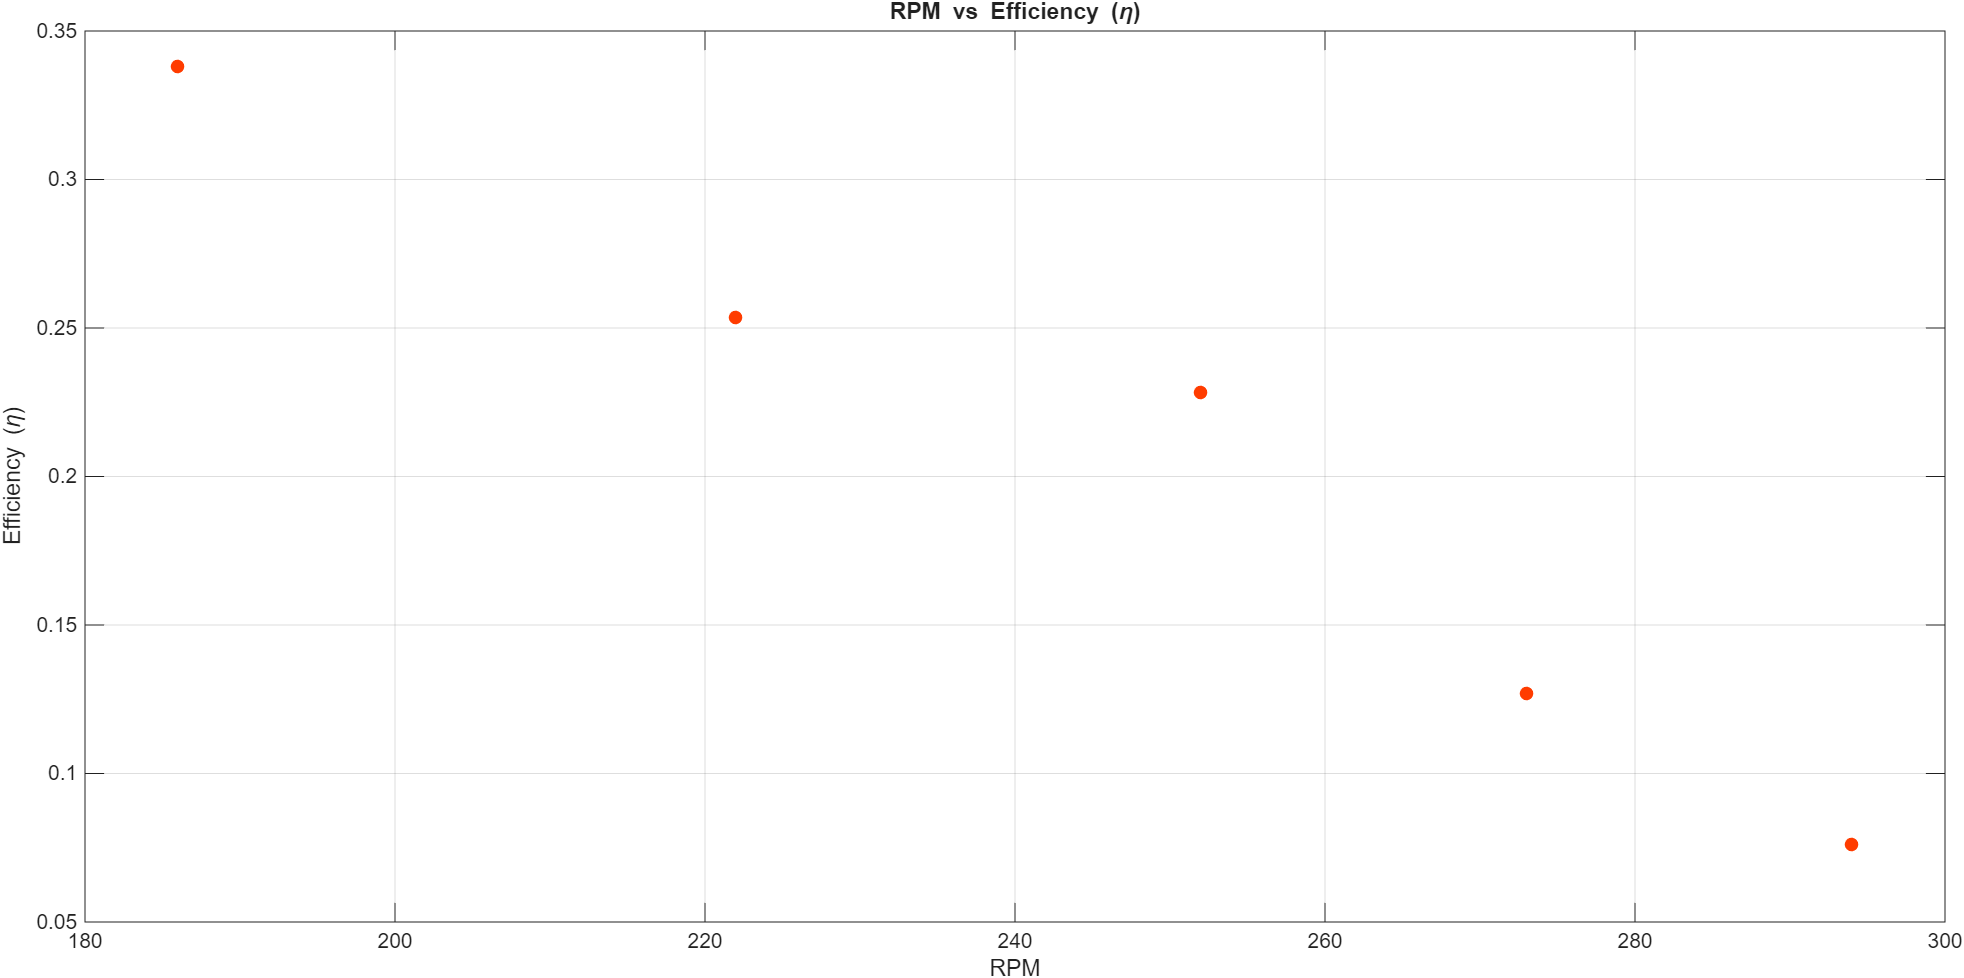
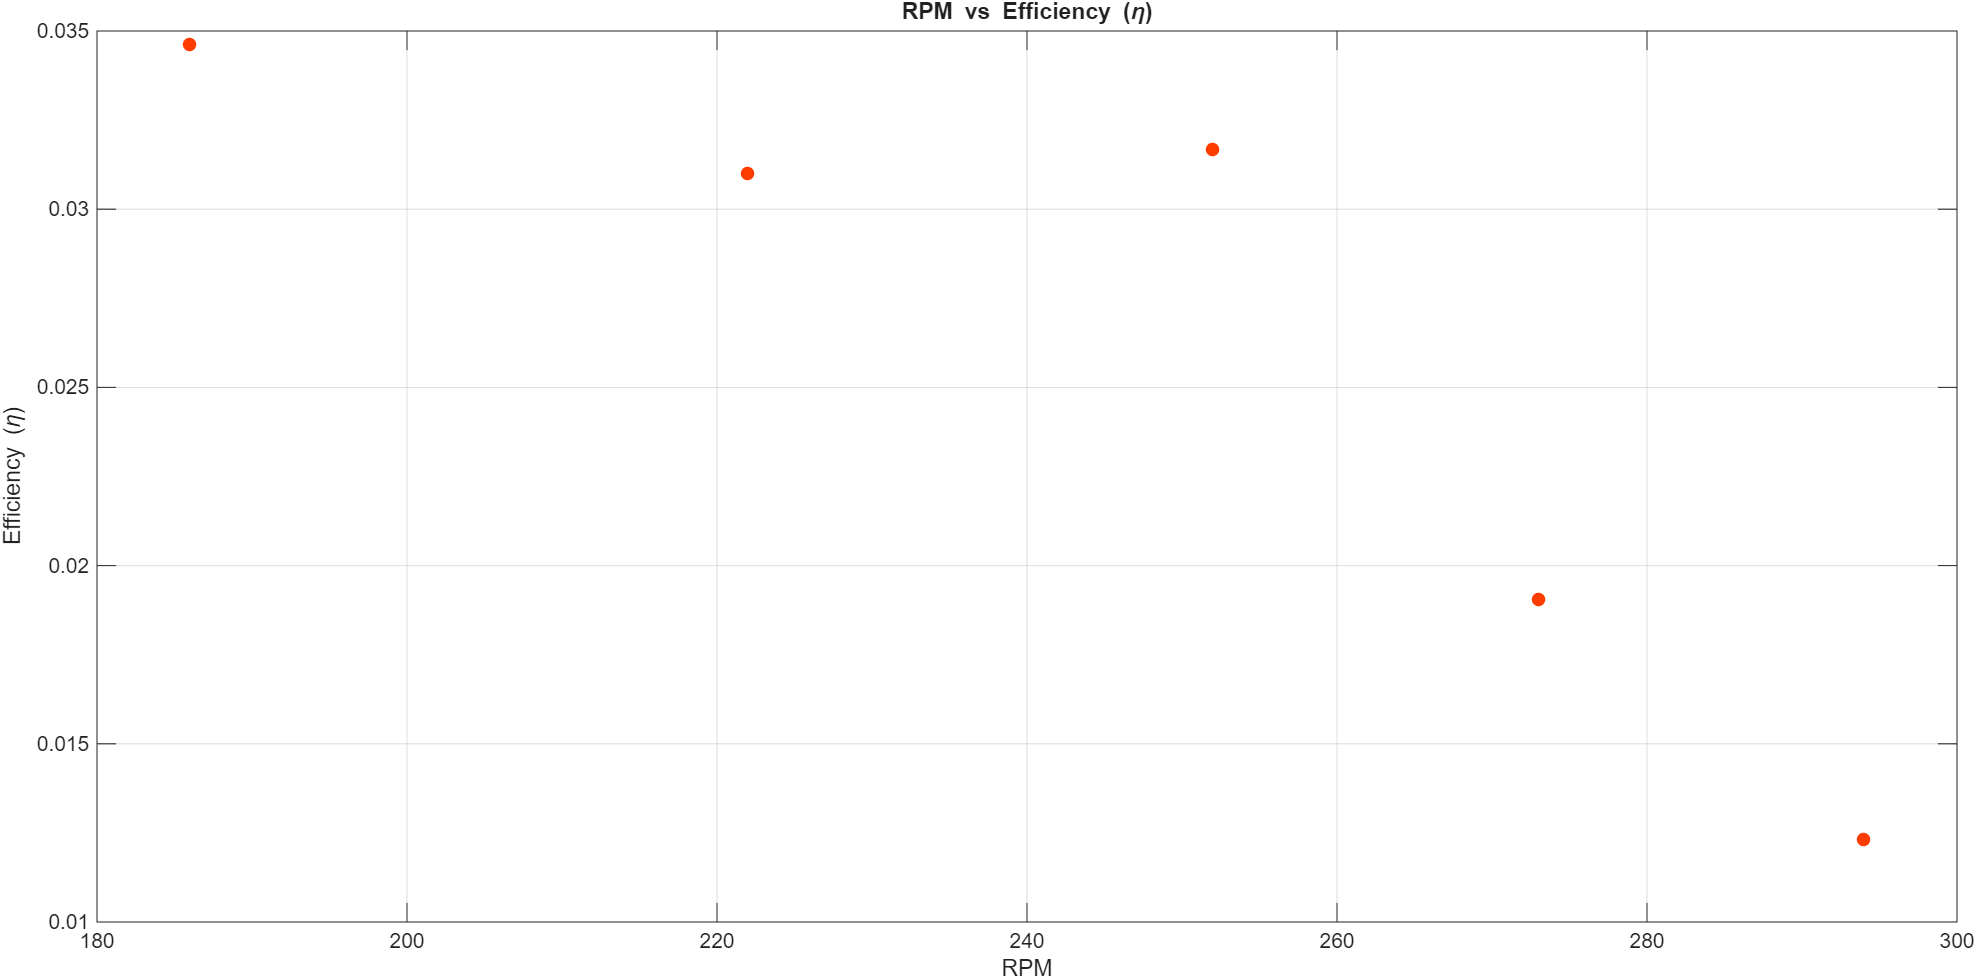
andrat lite :P

diff --git a/ET2/pV_diagram.m b/ET2/pV_diagram.m
@@ -1,5 +1,3 @@
-
-
 %% Inläsning av mätdata
 csvPath_1 = 'pv_cycle.csv';
 csvPath_2 = 'dyno.csv';
@@ -30,7 +28,8 @@ W_cycle = W_cycle_kJ * 1000; %från kJ till J
 f = 5.4; %frekvens (Hz)
 P = W_cycle * f;
 
-P_in = W_cycle * rps;
+
+P_in = 225;
 eta = P_out ./ P_in;
 
 %% Qin and Qout calculation
@@ -46,6 +45,11 @@ Qout = -sum(p_mid(dV < 0) .* dV(dV < 0)); % J
 
 Qin = Qin * 1000 * f;   % W
 Qout = Qout * 1000 * f; % W
+
+eta_th = P / Qin;
+
+fprintf('P{in}: %.2f W\n', P_in);
+fprintf('P{out}: %.2f W\n', P_out);
 
 fprintf('Q{in}: %.2f W\n', Qin);
 fprintf('Q{out}: %.2f W\n', Qout);
@@ -72,4 +76,5 @@ ylabel('Pressure (kPa)');
 set(gcf, "Theme", "light");
 
 fprintf('Arbete ut: %.2f W\n', P);
+fprintf('eta{TH}: %.2f\n', eta_th);
 fprintf('\nKlar!\n');
